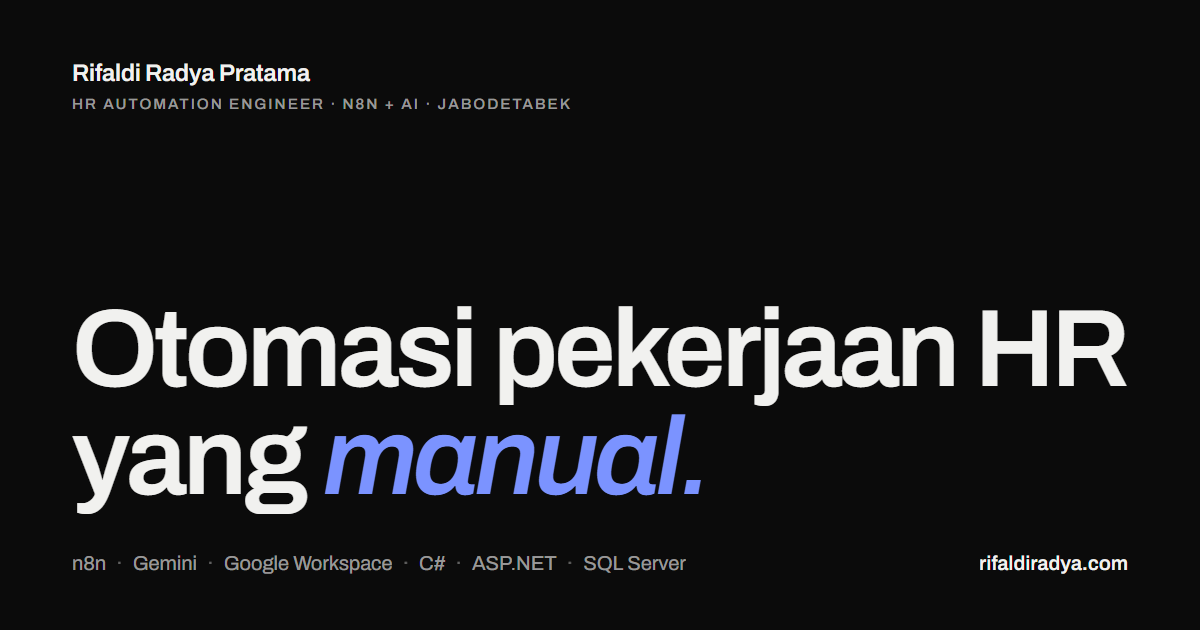
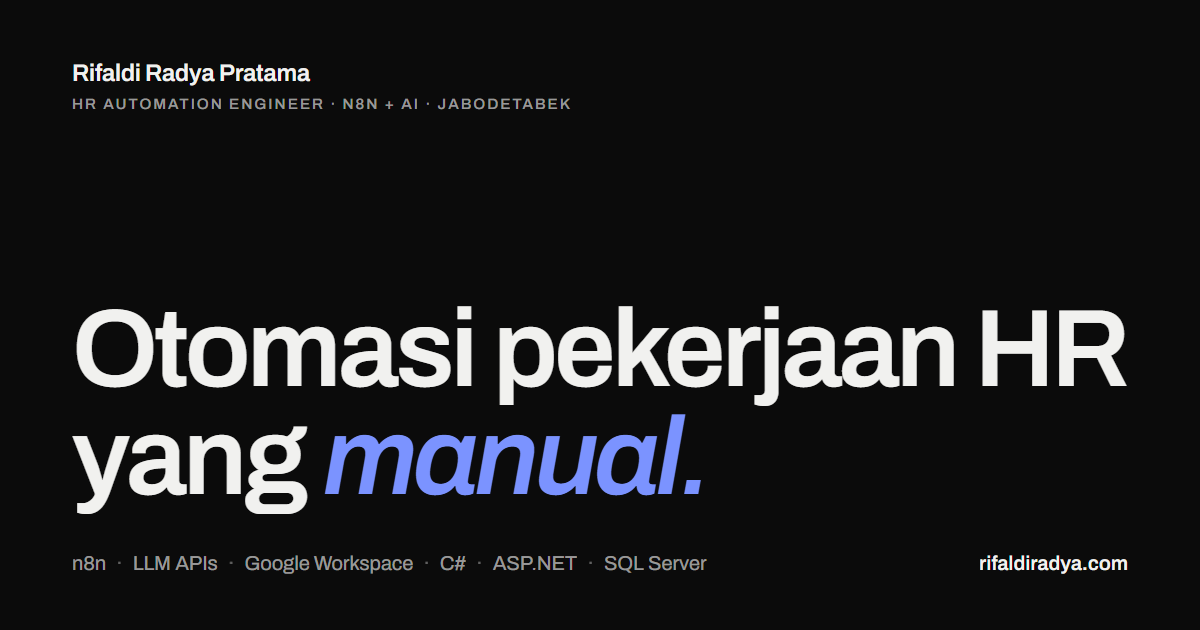
copy: name LLM APIs instead of Gemini in the stack line
The model changes per client, so the hero stack, OG images and JSON-LD
knowsAbout name the capability (LLM APIs / LLM integration), not a vendor.

Changed region(s): [[0.0925, 0.8746, 0.5858, 0.9349]]

diff --git a/lib/site-config.ts b/lib/site-config.ts
@@ -8,7 +8,7 @@ export const siteConfig = {
   knowsAbout: [
     "HR automation",
     "n8n",
-    "Google Gemini",
+    "LLM integration",
     "Google Workspace",
     "Power Automate",
     "HRMS",
@@ -26,7 +26,7 @@ export const siteConfig = {
   privacyUpdated: "2026-10-17",
   /** Hero stack line (CHANGE v2.2.0, Delta PRD section 4); scripts/og-images.mts reads the same list. */
   // Six short items so the hero still fits a 375 × 667 screen with the cookie banner (AC-1).
-  stack: ["n8n", "Gemini", "Google Workspace", "C#", "ASP.NET", "SQL Server"],
+  stack: ["n8n", "LLM APIs", "Google Workspace", "C#", "ASP.NET", "SQL Server"],
   social: {
     linkedin: "https://www.linkedin.com/in/rifaldiradya",
     /** Empty = not rendered anywhere (D-19). */

diff --git a/tests/unit/seo.test.ts b/tests/unit/seo.test.ts
@@ -109,7 +109,7 @@ describe("JSON-LD", () => {
       knowsAbout: [
         "HR automation",
         "n8n",
-        "Google Gemini",
+        "LLM integration",
         "Google Workspace",
         "Power Automate",
         "HRMS",

diff --git a/docs/changes/v2.2.0-hr-automation/CHANGE.md b/docs/changes/v2.2.0-hr-automation/CHANGE.md
@@ -48,7 +48,7 @@ Pal is moving their freelance service to HR / people-ops workflow automation (n8
 - **Intro note + §1 Product summary:** "rifaldiradya.com is a bilingual portfolio that presents Pal as an **HR automation engineer**: n8n and AI workflows for HR and people-ops teams, built on four years building and running the HRMS of a 13-company manufacturing group (C#, ASP.NET, SQL Server). The site is a funnel to email (project, or full-time role) plus Download CV." **Problem:** "HR teams lose hours to manual onboarding and admin, and cannot tell a generic automation freelancer from one who knows HR systems. The site shows a working automation (video + code) and the HRMS track record behind it." **Owner context:** "Pal is still employed; the employer is named once, as track record in About and the CV, never in headline copy or meta (D-41). Visitors come from Upwork and LinkedIn, mostly on a phone." Previously: full-stack .NET software engineer for recruiters; Panasonic may be named. Why: D-41, D-44.
 - **§2 Personas:** P1 — Automation client (primary): HR / people-ops lead or founder of a small to mid-size company, from Upwork or LinkedIn; looking for proof the automation works (demo, code), HR understanding, how to start; action: hero → Selected work/Work → Watch the demo → "Email about a project". P2 — Recruiter / hiring manager (secondary): unchanged content, action "Email about a full-time role" / Download CV. P3 unchanged. Previously: P1 recruiter, P2 project client. Why: D-44.
 - **§3 Goals:** goal 1 → "An HR or people-ops lead understands what Pal automates, and why Pal's HRMS background matters, from the first screen on a phone." Goal 3 → "Automation work can be judged by its demo and code; internal HRMS work by numbers, case content and a walkthrough." Metrics ADDED: "Project emails (`contact_email_click` kind `project` or `walkthrough`) ≥ 1 within 60 days after v2.2.0"; "`project_link_click` with `link = demo`: baseline for the first 30 days". The full-time interview metric stays.
-- **§4 Positioning:** "HR automation engineer: n8n and Google Gemini workflows for onboarding and HR admin, on Google Workspace. Since Nov 2022 has built and run the HRMS of a 13-company manufacturing group (C#, ASP.NET, SQL Server, Azure), which is the supporting proof." Copy table rows replaced (EN / ID):
+- **§4 Positioning:** "HR automation engineer: n8n and AI (LLM) workflows for onboarding and HR admin, on Google Workspace. Since Nov 2022 has built and run the HRMS of a 13-company manufacturing group (C#, ASP.NET, SQL Server, Azure), which is the supporting proof." Copy table rows replaced (EN / ID):
 
   | Element | EN | ID |
   | --- | --- | --- |
@@ -56,7 +56,7 @@ Pal is moving their freelance service to HR / people-ops workflow automation (n8
   | Availability | Open to HR automation projects | Terbuka untuk proyek otomasi HR |
   | H1 | I automate the HR work / done *by hand.* | Otomasi pekerjaan HR / yang *manual.* |
   | Sub | Four years building and running the HR system of a 13-company manufacturing group. Now I build HR automations with n8n and AI. | Empat tahun membangun dan menjaga sistem HR grup manufaktur 13 perusahaan. Sekarang saya membangun otomasi HR dengan n8n dan AI. |
-  | Stack | n8n · Gemini · Google Workspace · C# · ASP.NET · SQL Server | same |
+  | Stack | n8n · LLM APIs · Google Workspace · C# · ASP.NET · SQL Server (no AI vendor named: the model changes per client) | same |
   | Highlight meta | Highlight · HRMS · Live since early 2023 | Sorotan · HRMS · Berjalan sejak awal 2023 |
   | Contact H2 | Tell me what you'd like to *automate.* | Ada proses HR yang mau *diotomasi?* |
   | Contact pitch | Need an HR process automated, or a developer on your team? Send a few lines about it and I'll reply by email. | Perlu proses HR diotomasi, atau developer untuk tim Anda? Ceritakan singkat kebutuhannya, saya balas lewat email. |
@@ -75,7 +75,7 @@ Pal is moving their freelance service to HR / people-ops workflow automation (n8
   | `/id` | Rifaldi Radya Pratama, HR Automation Engineer (n8n + AI) | Workflow n8n dan AI untuk otomasi onboarding dan administrasi HR, berbekal empat tahun di HRMS grup manufaktur 13 perusahaan. Berbasis di Jabodetabek. |
   | `/id/work` | Karya: Otomasi HR dan Sistem HR \| Rifaldi Radya Pratama | Otomasi HR dengan n8n dan AI, HRMS enterprise, website, dan alat AI karya Rifaldi Radya Pratama. Buka satu baris untuk melihat detailnya. |
 
-  OG alt: "Rifaldi Radya Pratama, HR automation engineer. I automate the HR work done by hand." / "Rifaldi Radya Pratama, HR automation engineer. Otomasi pekerjaan HR yang manual." **Keyword hypothesis:** "HR automation n8n", "n8n onboarding automation", "HR automation freelancer Indonesia" + personal name. **JSON-LD Person:** `jobTitle` "HR Automation Engineer"; no `worksFor`; `knowsAbout` HR automation, n8n, Google Gemini, Google Workspace, Power Automate, HRMS, C#, ASP.NET, SQL Server. Previously: "Software Engineer", `worksFor` PT Panasonic Manufacturing Indonesia, .NET-only `knowsAbout`.
+  OG alt: "Rifaldi Radya Pratama, HR automation engineer. I automate the HR work done by hand." / "Rifaldi Radya Pratama, HR automation engineer. Otomasi pekerjaan HR yang manual." **Keyword hypothesis:** "HR automation n8n", "n8n onboarding automation", "HR automation freelancer Indonesia" + personal name. **JSON-LD Person:** `jobTitle` "HR Automation Engineer"; no `worksFor`; `knowsAbout` HR automation, n8n, LLM integration, Google Workspace, Power Automate, HRMS, C#, ASP.NET, SQL Server. Previously: "Software Engineer", `worksFor` PT Panasonic Manufacturing Indonesia, .NET-only `knowsAbout`.
 - **§12 Content dependencies:** ADDED items (Impact checklist, content tasks).
 - **§13 Risks:** "Coworkers see 'Open to full-time roles'" → "Coworkers see the freelance pitch" (mitigation: availability switch, employer only in About). Assumption "Panasonic work may be named" → "Panasonic is named once, as track record in About and the CV (D-41)".
 
